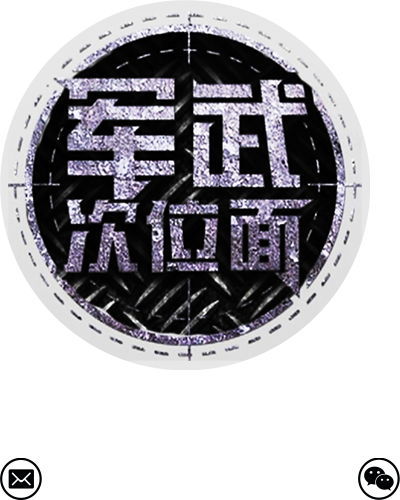
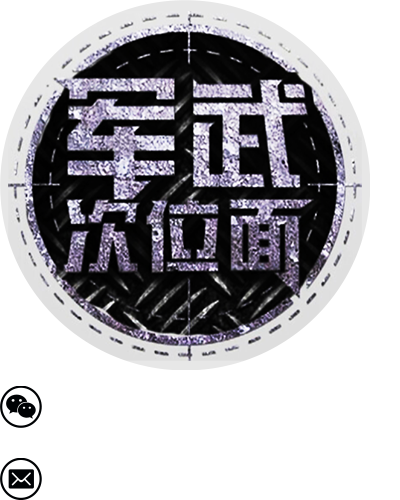
add

Changed region(s): [[0.9, 0.9, 1.0, 1.0], [0.0, 0.75, 0.12, 0.87]]

diff --git a/style/hong.css b/style/hong.css
@@ -1,9 +1,48 @@
+.contact_top{
+	padding: 15px 0;
+}
 .contact_icon{
 	/*width: */
 	margin: 0 auto;
 	width: 185px;
-	height: 212px;
+	height: 185px;
 	background: url('../img/contact_icon.png') no-repeat 0px 0px;
 	background-size: 200px 250px;
 
+}
+.contact_main{
+	padding: 0 18px;
+	color: #000204;
+	font-size: 1.6rem;
+	line-height: 1.8rem;
+	text-indent: 30px;
+}
+.contact_tag{
+	height: 29px;
+	line-height: 29px;
+	background: #000204;
+	font-size: 1.6rem;
+	color: #fff;
+	padding: 0 21px;
+	display: inline-block;
+	border-radius: 20px;
+	margin: 22px 0 0 18px;
+}
+.contact_tag_detail{
+	font-size: 1.6rem;
+	padding: 10px 0;
+
+}
+.contact_tag_detail>div{
+	padding-left: 43px;
+	height: 29px;
+	line-height: 29px;
+}
+.contact_tag_mail{
+	background: url('../img/contact_icon.png') no-repeat 20px -227px;
+	background-size: 200px 250px;
+}
+.contact_tag_wx{
+	background: url('../img/contact_icon.png') no-repeat 20px -190px;
+	background-size: 200px 250px;
 }

diff --git a/contact.html b/contact.html
@@ -18,5 +18,13 @@
 		<div class="menu_btn"></div>
 	</header><!-- top_bar -->
     <div class="contact_top"><div class="contact_icon"></div></div>
+    <div class="contact_main">
+        北京光速时光网络科技有限公司，成立于2015年初，是一家中国领先的互联网视频制作公司，公司主要制作探索、科普类网络视频节目，旗下有《军武次位面》、《张召忠说》等知名视频节目，在腾讯视频、优酷土豆、搜狐视频、爱奇艺、凤凰网、A站、B站、乐视、小米电视等视频网站拥有众多的粉丝。
+    </div>
+    <div class="contact_tag">商务合作请联系</div>
+    <div class="contact_tag_detail">
+        <div class="contact_tag_mail">邮箱：jkjljkl@163.com</div>
+        <div class="contact_tag_wx">微信：jkjkjk</div>
+    </div>
 </body>
 </html>
